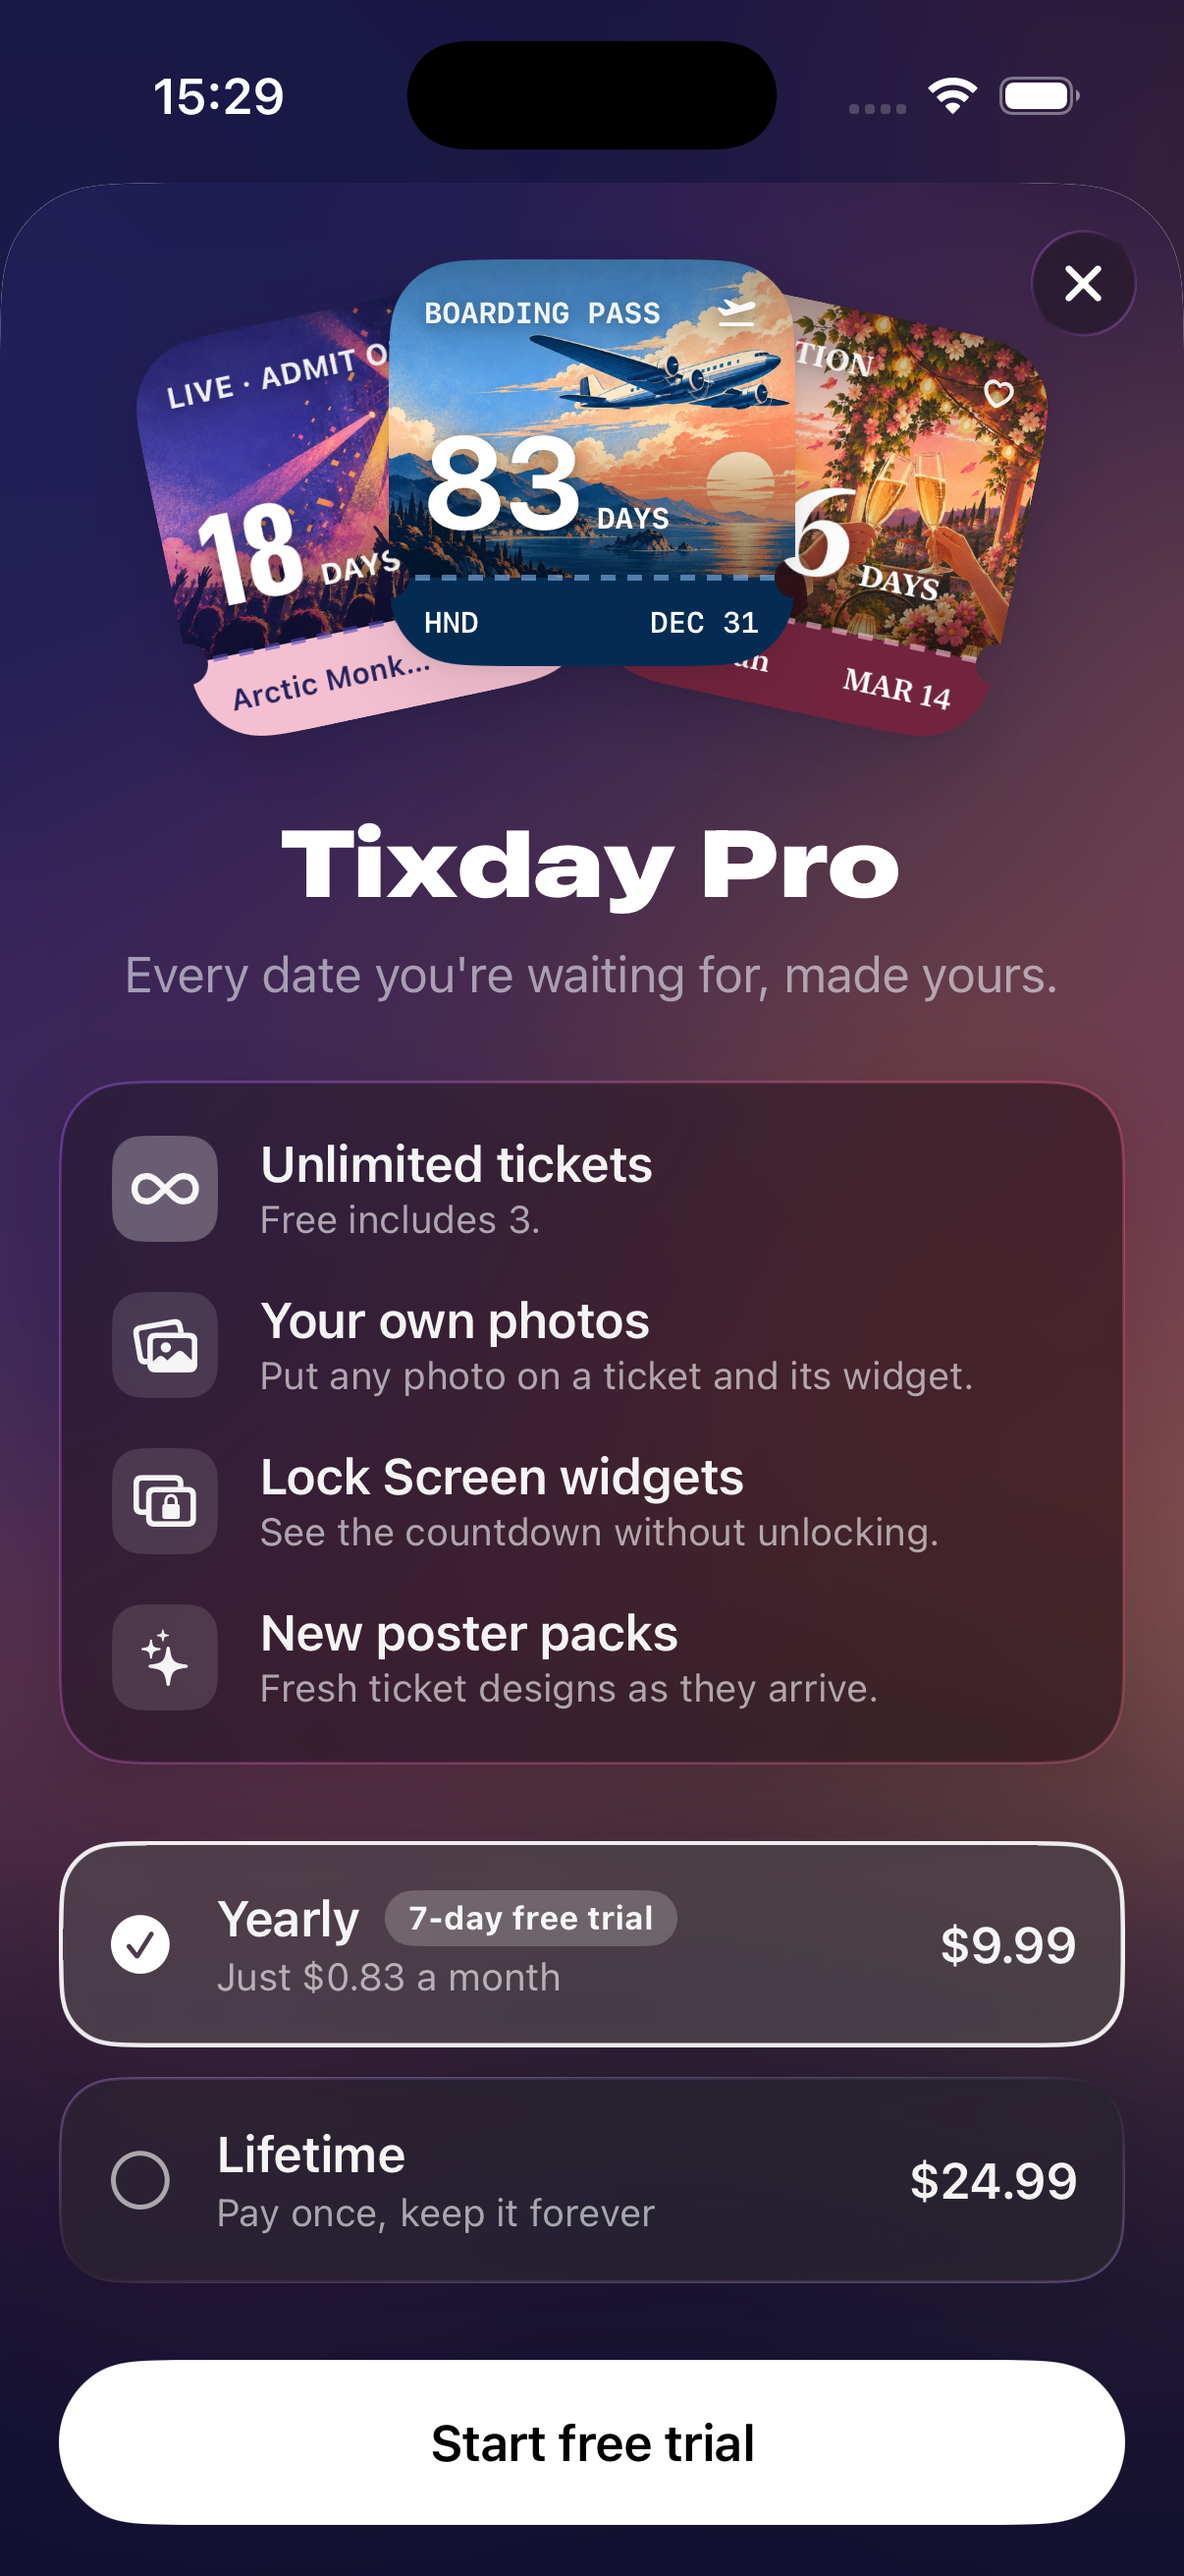
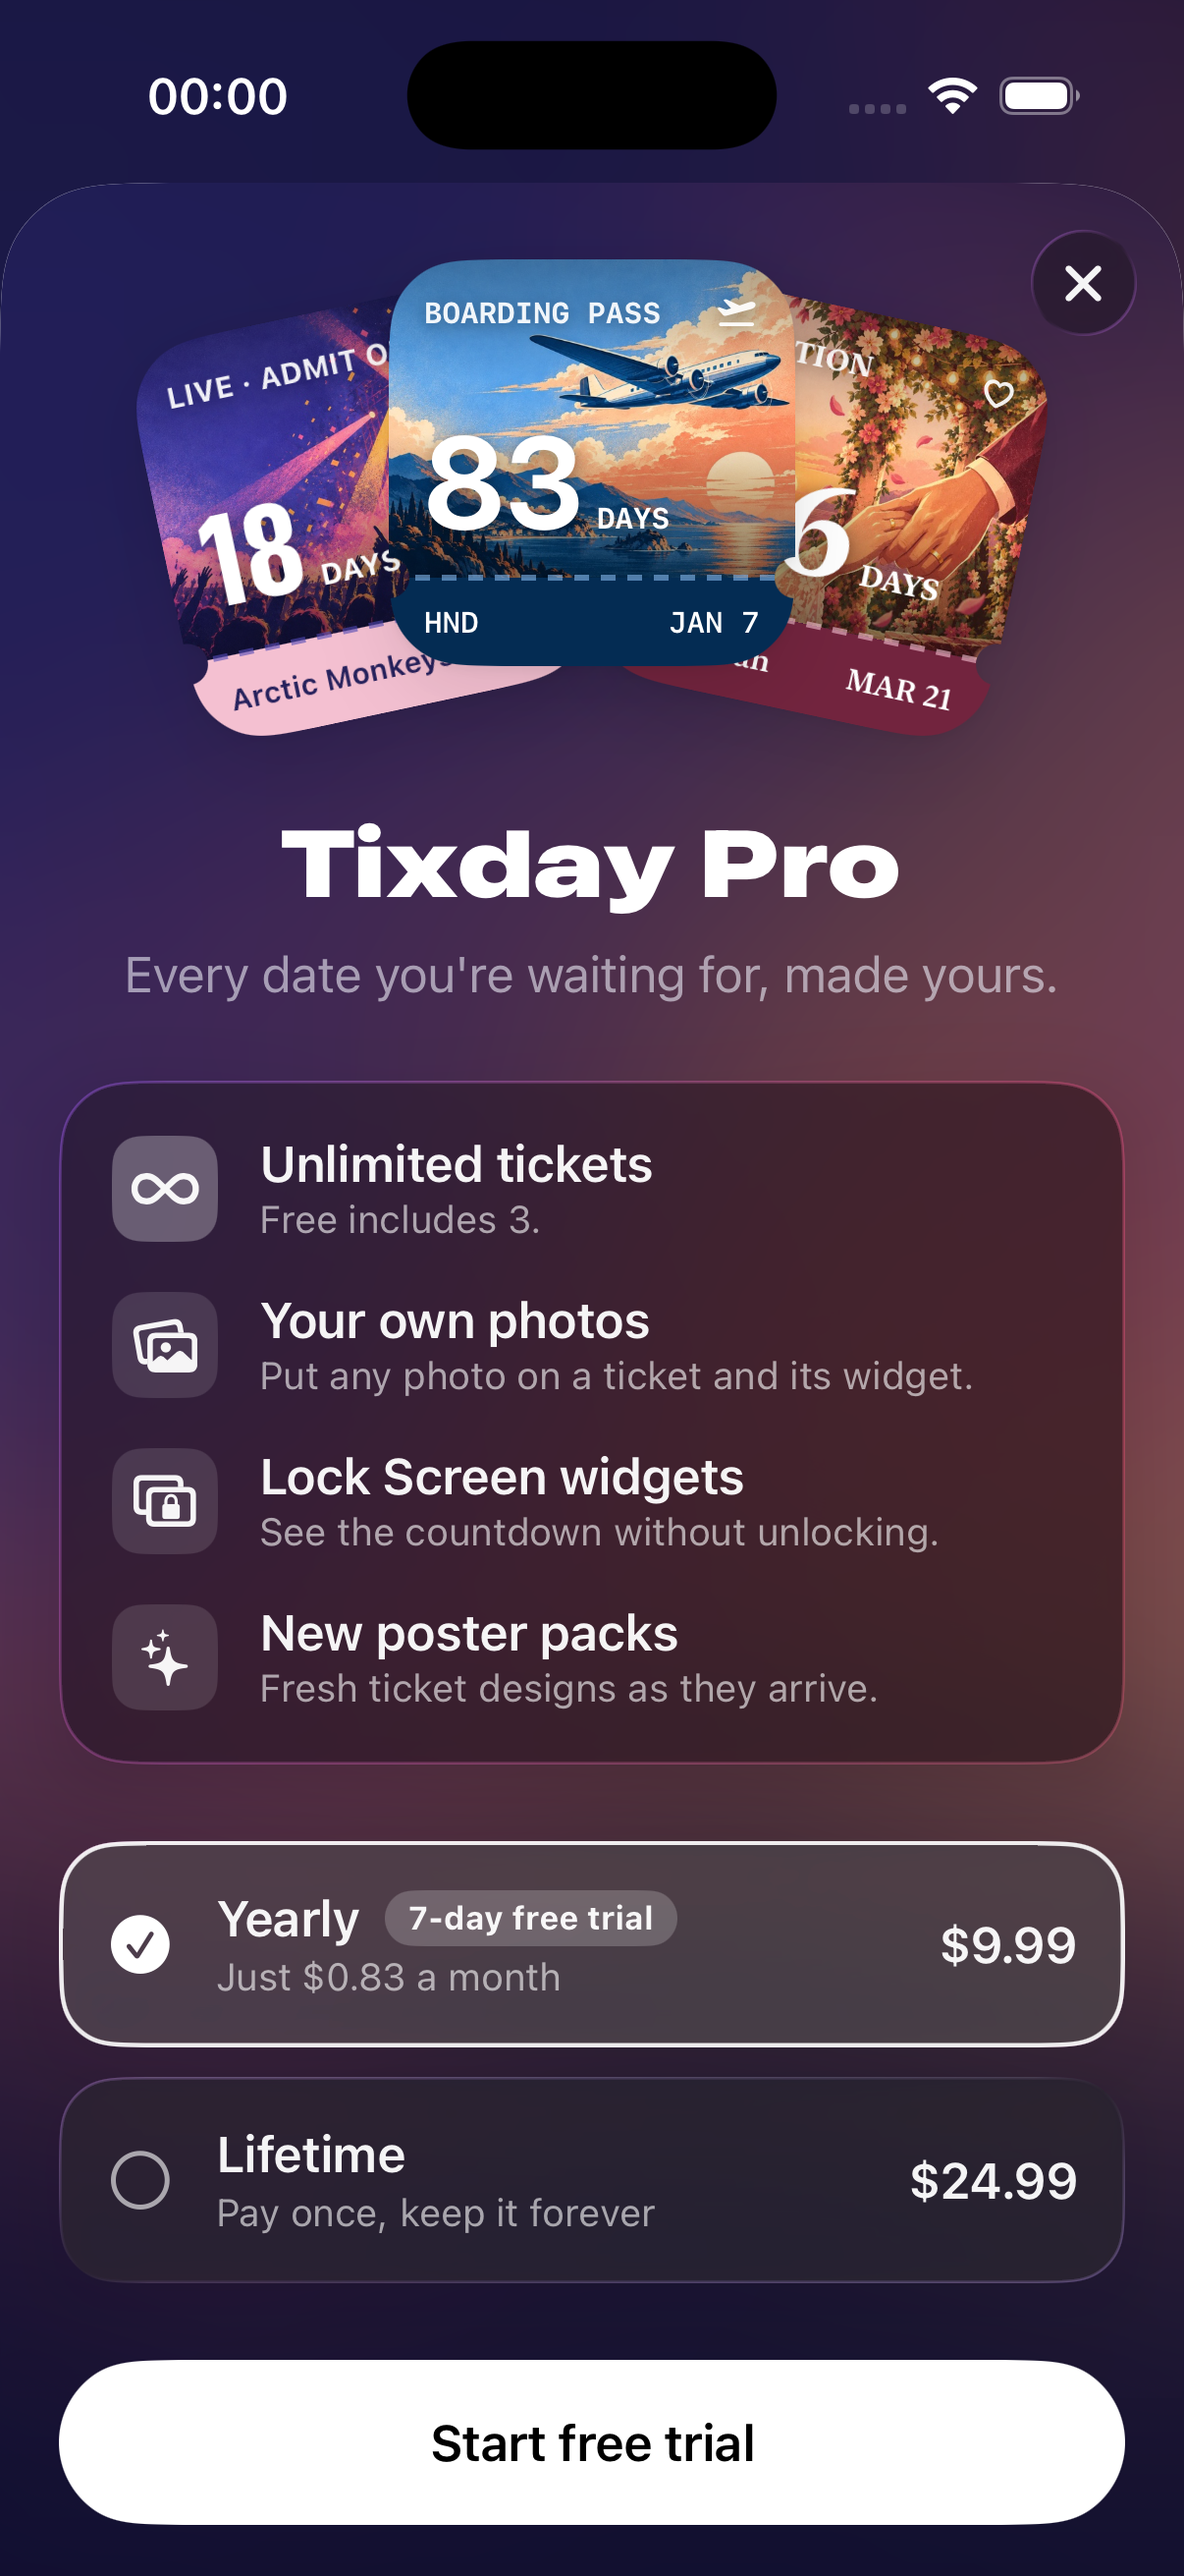
New wedding poster without drinks; refresh the paywall review screenshot
Two hands with wedding rings instead of a champagne toast, so the app has no
alcohol references and keeps a 4+ age rating.

Changed region(s): [[0.5522, 0.0927, 0.8897, 0.278], [0.1227, 0.0309, 0.2454, 0.0618], [0.3375, 0.2471, 0.3682, 0.278]]

diff --git a/docs/ASSET_PROMPTS.md b/docs/ASSET_PROMPTS.md
@@ -66,13 +66,13 @@ The same poster as a square version: a desk by a large window at sunrise with a 
 ## 7. Düğün — geniş
 **Dosya:** `design/poster-wedding-wide.png`
 ```
-A vintage poster illustration of two champagne glasses clinking under a lush arch of flowers and warm string lights in a garden at golden hour, a few floating petals. Style: vintage 1930s travel poster, screen-printed look, bold flat shapes with soft gradients, a limited palette of blush #FBEAF0, rose #D4537E, burgundy #72243E, sage green #97C459 and gold #FAC775, fine paper grain and a subtle halftone texture, dramatic simple composition, vivid and eye-catching. Composition: the main subject sits center-right; keep the top-left third as calm open sky or plain background (a title will be printed there) and keep the bottom quarter simple and slightly darker (small text will be printed there). Landscape 1536x1024, fully opaque, artwork edge to edge, no border, no frame, no margins. Absolutely no text, letters, numbers, signatures or logos anywhere.
+A vintage poster illustration of two hands with gold wedding rings gently holding each other under a lush arch of flowers and warm string lights in a garden at golden hour, a calm sea and a setting sun in the distance, a few floating petals. Style: vintage 1930s travel poster, screen-printed look, bold flat shapes with soft gradients, a limited palette of blush #FBEAF0, rose #D4537E, burgundy #72243E, sage green #97C459 and gold #FAC775, fine paper grain and a subtle halftone texture, dramatic simple composition, vivid and eye-catching. Composition: the main subject sits center-right; keep the top-left third as calm open sky or plain background (a title will be printed there) and keep the bottom quarter simple and slightly darker (small text will be printed there). Landscape 1536x1024, fully opaque, artwork edge to edge, no border, no frame, no margins. Absolutely no text, letters, numbers, signatures or logos anywhere.
 ```
 
 ## 8. Düğün — kare
 **Dosya:** `design/poster-wedding-square.png`
 ```
-The same poster as a square version: two champagne glasses clinking under a lush arch of flowers and warm string lights in a garden at golden hour, a few floating petals, in exactly the same style, palette and texture as the previous image. Composition: the main subject sits in the upper-right and center; keep the top-left corner calm and the bottom-left area simple and darker (a large number will be printed there). Square 1024x1024, fully opaque, artwork edge to edge, no border, no frame, no margins. Absolutely no text, letters, numbers, signatures or logos anywhere.
+The same poster as a square version: two hands with gold wedding rings gently holding each other under a lush arch of flowers and warm string lights in a garden at golden hour, a few floating petals, in exactly the same style, palette and texture as the previous image. Composition: the main subject sits in the upper-right and center; keep the top-left corner calm and the bottom-left area simple and darker (a large number will be printed there). Square 1024x1024, fully opaque, artwork edge to edge, no border, no frame, no margins. Absolutely no text, letters, numbers, signatures or logos anywhere.
 ```
 
 ## 9. Doğum günü — geniş

diff --git a/docs/TODO.md b/docs/TODO.md
@@ -23,6 +23,7 @@ Yeni oturumda kaldığımız yer burası. Sorumlu belirtilmemişse iş Claude'da
 
 ### App Store Connect — **Fatih**
 - [ ] App Privacy etiketi (RevenueCat: satın alma geçmişi + kullanıcı kimliği, takip yok) — adımları `docs/app-store/app-privacy.md` olarak Claude hazırlayacak
+- [x] Düğün posteri kadehsiz (yüzüklü eller) yenilendi, alkol tasviri yok → yaş derecelendirmesinde Alcohol = None, hedef 4+ (2026-10-16). IAP inceleme görseli `docs/app-store/review-paywall.png` yeni posterle yeniden çekildi; App Store Connect'te iki ürüne yeniden yüklenmeli — **Fatih**
 - [ ] Age Rating anketi, Content Rights, fiyat = Free, kategori (Lifestyle / Utilities)
 - [ ] Abonelik grubunun görünen adı "Tixday Pro Yearly" → "Tixday Pro"
 - [ ] App Review notu (Pro'ya nasıl ulaşılır, ücretsiz sınır 3) — metni Claude hazırlayacak
